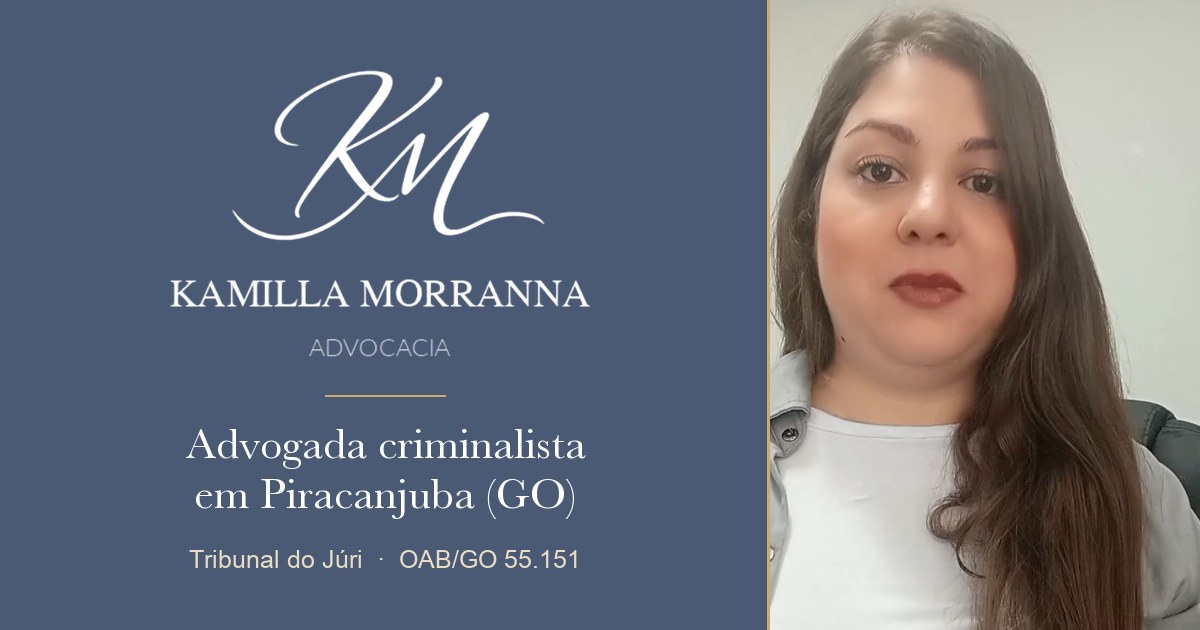
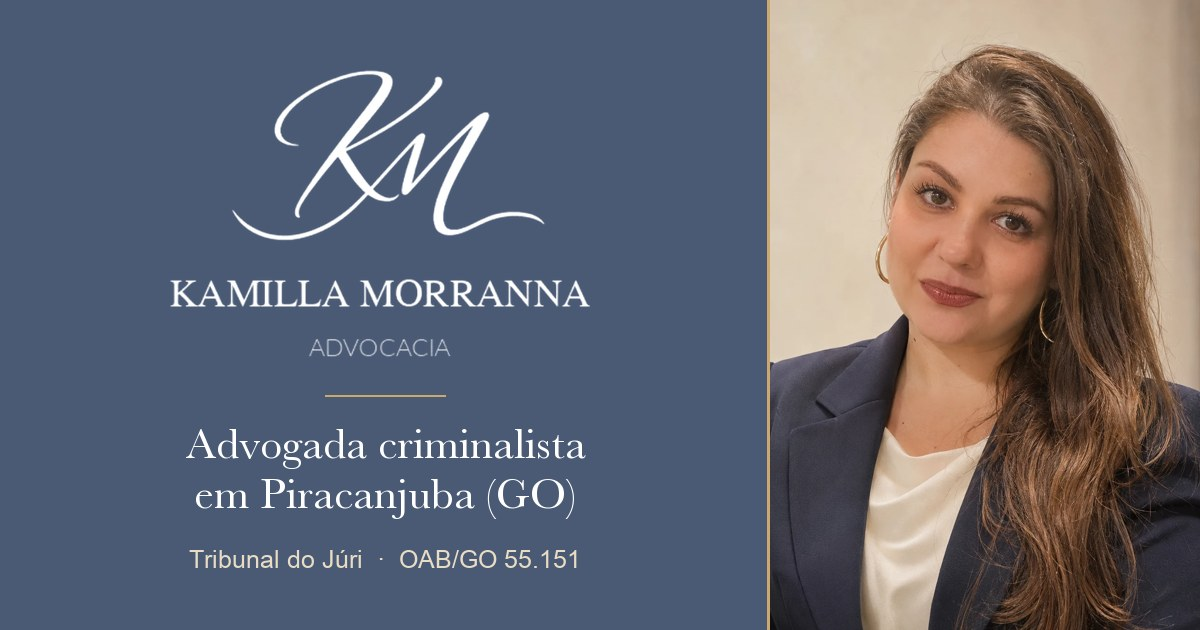
Troca o retrato de Kamilla Morranna pela foto profissional
A foto enviada pelo operador entra no topo da página com nome novo de
arquivo, para não haver cópia antiga no cache do otimizador de imagens,
e no cartão de compartilhamento.

Changed region(s): [[0.6167, 0.0, 1.0, 1.0]]

diff --git a/src/app/kamillamorranna/page.tsx b/src/app/kamillamorranna/page.tsx
@@ -129,7 +129,7 @@ const esquema = {
     {
       "@type": "LegalService", "@id": url + "#escritorio", name: nome, url,
       mainEntityOfPage: { "@id": url + "#pagina" },
-      image: portal + imagens + "/retrato.webp", logo: portal + imagens + "/marca.webp",
+      image: portal + imagens + "/retrato-profissional.webp", logo: portal + imagens + "/marca.webp",
       telephone: "+" + telefone, sameAs: [instagram], employee: { "@id": url + "#kamilla-morranna" },
       areaServed: [
         { "@type": "City", name: "Piracanjuba", containedInPlace: { "@type": "State", name: "Goiás" } },
@@ -150,7 +150,7 @@ const esquema = {
     },
     {
       "@type": "Person", "@id": url + "#kamilla-morranna", name: profissional, alternateName: "Kamilla Morranna",
-      jobTitle: "Advogada criminalista", image: portal + imagens + "/retrato.webp",
+      jobTitle: "Advogada criminalista", image: portal + imagens + "/retrato-profissional.webp",
       worksFor: { "@id": url + "#escritorio" }, sameAs: [instagram],
       knowsAbout: ["Direito Penal", "Processo Penal", "Tribunal do Júri", "Audiência de custódia", "Direito de Família"],
       identifier: { "@type": "PropertyValue", propertyID: "OAB-GO", value: "55.151" },
@@ -195,7 +195,7 @@ export default function KamillaMorranna() {
               <p className={s.selo}><Clock size={16} aria-hidden="true" /> Atendimento criminal 24 horas</p>
             </div>
             <figure className={s.retrato}>
-              <Image src={imagens + "/retrato.webp"} width={720} height={1000} alt="Retrato da advogada Kamilla Morranna"
+              <Image src={imagens + "/retrato-profissional.webp"} width={1060} height={1325} alt="Retrato da advogada Kamilla Morranna, de blazer azul-marinho"
                 loading="eager" fetchPriority="high" sizes="(max-width: 700px) 80vw, (max-width: 1150px) 38vw, 420px" />
               <figcaption><strong>Kamilla Morranna</strong><span>Advogada · {registro}</span></figcaption>
             </figure>
